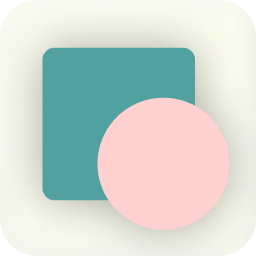
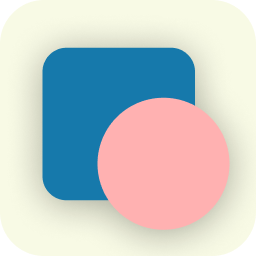
update accent colors

diff --git a/docs/_site/main.css b/docs/_site/main.css
@@ -1,1 +1,1 @@
[2 lines of base64/hex data omitted]

diff --git a/Color Streak/Flow/PalettePick/PalettePickView.swift b/Color Streak/Flow/PalettePick/PalettePickView.swift
@@ -11,6 +11,7 @@ import FirebaseAnalytics
 struct PalettePickView: View {
     @EnvironmentObject private var coordinator: Coordinator<CatalogRouter, CatalogError>
     @ObservedObject var palette: Palette
+    let initialColors: [Color]
     
     @AppStorage(UserDefaultsKey.deviceColorSpace.key)
     private var colorSpace: DeviceColorSpace = .displayP3
@@ -35,6 +36,11 @@ struct PalettePickView: View {
     }
     
     @State private var controller: ColorController = .slider
+    
+    init(palette: Palette) {
+        self.palette = palette
+        self.initialColors = palette.colors
+    }
     
     var body: some View {
         VStack(spacing: .zero) {
@@ -104,45 +110,13 @@ struct PalettePickView: View {
         .navigationBarTitleDisplayMode(.inline)
         .toolbar {
             ToolbarItem(placement: .automatic) {
-                Menu {
-                    Button("Light", systemImage: "sun.min.fill", action: {
-                        isDarkMode = false
-                    })
-                    
-                    Button("Dark", systemImage: "moon.fill", action: {
-                        isDarkMode = true
-                    })
-                } label: {
-                    Image(systemName: isDarkMode ? "moon.fill" : "sun.min.fill")
-                }
+                menuActions
             }
             
             ToolbarItem(placement: .automatic) {
-                Menu {
-                    Picker("Color Space", selection: $colorSpace) {
-                        ForEach(DeviceColorSpace.allCases) { colorSpace in
-                            Text(colorSpace.name)
-                                .tag(colorSpace)
-                        }
-                    }
-                } label: {
-                    Image(systemName: "cube.fill")
+                Button(role: .destructive, action: cancelChanges) {
+                    Image(systemName: "arrow.clockwise")
                 }
-            }
-            
-            ToolbarItem(placement: .automatic) {
-                    if palette.image != nil {
-                        Menu {
-                            Picker("Picker", selection: $colorPickerSource) {
-                                ForEach(ColorPickerSource.allCases) { colorPickerSource in
-                                    Text(colorPickerSource.name)
-                                        .tag(colorPickerSource)
-                                }
-                            }
-                        } label: {
-                            Image(systemName: "eyedropper.halffull")
-                        }
-                    }
             }
         }
         .toolbar(.hidden, for: .tabBar)
@@ -158,6 +132,10 @@ struct PalettePickView: View {
             palette.saveModel()
         }
         .analyticsScreen(name: AnalyticsEvent.screen(view: "\(type(of: self))"))
+    }
+    
+    private func cancelChanges() {
+        palette.colors = initialColors
     }
     
     private var minusButton: some View  {
@@ -226,6 +204,48 @@ struct PalettePickView: View {
         
         var name: String {
             self.rawValue
+        }
+    }
+    
+    private var menuActions: some View {
+        Menu {
+            Menu {
+                Button("Light", systemImage: "sun.min.fill", action: {
+                    isDarkMode = false
+                })
+                
+                Button("Dark", systemImage: "moon.fill", action: {
+                    isDarkMode = true
+                })
+            } label: {
+                Label("Light mode", systemImage: isDarkMode ? "moon.fill" : "sun.min.fill")
+            }
+            
+            Menu {
+                Picker("Color Space", selection: $colorSpace) {
+                    ForEach(DeviceColorSpace.allCases) { colorSpace in
+                        Text(colorSpace.name)
+                            .tag(colorSpace)
+                    }
+                }
+            } label: {
+                Label("Color Space", systemImage: "cube.fill")
+            }
+            
+            if palette.image != nil {
+                Menu{
+                    Picker("Picker", selection: $colorPickerSource) {
+                        ForEach(ColorPickerSource.allCases) { colorPickerSource in
+                            Text(colorPickerSource.name)
+                                .tag(colorPickerSource)
+                        }
+                    }
+                } label: {
+                    Label("Picker", systemImage: "eyedropper.halffull")
+                }
+            }
+        } label: {
+            Label("Settings", systemImage: "gearshape.fill")
         }
     }
 }

diff --git a/Color Streak/Flow/ColorPicker/Subviews/GradientSliderView.swift b/Color Streak/Flow/ColorPicker/Subviews/GradientSliderView.swift
@@ -14,6 +14,7 @@ struct GradientSliderView: View {
     @Binding var gradient: LinearGradient
     @State var coordinate: ColorCoordinate
     let showControl = true
+//    @State var initialLevel: Double
     
     @State private var size: CGSize = .zero
     @State private var position: CGPoint = .zero
@@ -21,6 +22,17 @@ struct GradientSliderView: View {
     @State private var isDragging = false
     
     @Environment(\.isEnabled) private var isEnabled
+    
+    @State private var triggerVibration: Bool = false
+    
+    init(text: String, color: Binding<Color>, level: Binding<Double>, gradient: Binding<LinearGradient>, coordinate: ColorCoordinate) {
+        self.text = text
+        self._color = color
+        self._level = level
+        self._gradient = gradient
+        self.coordinate = coordinate
+//        self.initialLevel = level.wrappedValue
+    }
     
     var body: some View {
         VStack(spacing: 0) {
@@ -61,6 +73,8 @@ struct GradientSliderView: View {
                 
                 KnobView(color: $color)
                     .position(position)
+                
+//                initialPoint
             }
             .readSize { size in
                 self.size = size
@@ -90,11 +104,22 @@ struct GradientSliderView: View {
                 guard isDragging else { return }
                 updateLevel(position: newPosition)
             }
+            .sensoryFeedback(.selection, trigger: triggerVibration)
         }
     }
     
     private func updateLevel(position: CGPoint) {
         let newLevel = max(min(position.x / size.width, size.width), 0)
+        
+//        let accuracy = 0.9 * 1 / (coordinate.range.upperBound - coordinate.range.lowerBound)
+//        let initialAccuracyRange = (initialLevel - accuracy)...(initialLevel + accuracy)
+//        if initialAccuracyRange ~= newLevel {
+//            level = initialLevel
+//            triggerVibration.toggle()
+//        } else {
+//            level = newLevel
+//        }
+        
         if level != newLevel {
             level = newLevel
         }
@@ -104,10 +129,20 @@ struct GradientSliderView: View {
         let x = max(min(level * size.width, size.width), 0)
         let y = size.height / 2
         let newPosition = CGPoint(x: x, y: y)
+        
         if newPosition != position {
             position = newPosition
         }
     }
+    
+//    private var initialPoint: some View {
+//        let midY = (size.height - 1) / 2
+//        let initialX = max(min(initialLevel * size.width, size.width), 0)
+//        return Circle()
+//            .fill(.regularMaterial)
+//            .frame(height: 5)
+//            .position(x: initialX, y: midY)
+//    }
 }
 
 #Preview {
@@ -122,7 +157,7 @@ struct GradientSliderView: View {
                 color: $color,
                 level: $level,
                 gradient: $gradient,
-                coordinate: .balance)
+                coordinate: .normal)
         }
     }
     

diff --git a/Color Streak/Flow/Contrast/ContrastView.swift b/Color Streak/Flow/Contrast/ContrastView.swift
@@ -30,16 +30,21 @@ struct ContrastView: View {
                 LazyVGrid(columns: [GridItem(.adaptive(minimum: 50, maximum: 100))], alignment: .center) {
                     ForEach(Array(zip(palette.colors.indices, palette.colors)), id: \.0) { index, color in
                         
+                        let isBackground = backgroundIndex == index
+                        let isForeground = foregroundIndex == index
                         Circle()
                             .fill(color)
-                            .shadow(color: .black.opacity(0.12), radius: 16)
                             .overlay {
-                                if index == foregroundIndex || index == backgroundIndex {
-                                    Circle()
-                                        .fill(.regularMaterial)
-                                        .frame(width: 8)
-                                }
+                                Circle()
+                                    .stroke(.regularMaterial, lineWidth: isBackground ? 8 : 0)
                             }
+                            .overlay {
+                                Circle()
+                                    .fill(.regularMaterial)
+                                    .frame(width: isForeground ? 16 : 0)
+                            }
+                        
+                            .shadow(color: .black.opacity(0.12), radius: 8)
                             .onTapGesture {
                                 if index == foregroundIndex || index == backgroundIndex {
                                     ifForegroundSelection = (index == foregroundIndex)

diff --git a/Color Streak/Model/Palette.swift b/Color Streak/Model/Palette.swift
@@ -8,7 +8,7 @@
 import SwiftUI
 import Combine
 
-class Palette: ObservableObject {
+class Palette: ObservableObject, Copyable {
     @Published var colors = [Color]()
     @Published var selection: Int?
     @Published var colorSpace: DeviceColorSpace = .sRGB
@@ -46,6 +46,16 @@ class Palette: ObservableObject {
         self.colorSpace = colorSpace
         self.name = name
         self.selection = colors.first != nil ? .zero : nil
+    }
+    
+    required init(copy: Palette) {
+        self.colors = copy.colors
+        self.name = "Copy of " + copy.name
+        self.colorSpace = copy.colorSpace
+        self.image = copy.image
+        self.tags = copy.tags
+        self.dateCreated = Date.now
+        self.dateModified = Date.now
     }
     
     var isMaxColors: Bool {
@@ -221,19 +231,6 @@ extension Palette {
         image: UIImage(resource: .circleColors))
     
     static func single(_ color: Color) -> Palette { Palette(colors: [color]) }
-}
-
-extension Palette: NSCopying {
-    func copy(with zone: NSZone? = nil) -> Any {
-        let copy = Palette(
-            colors: self.colors,
-            name: "Copy of " + self.name,
-            colorSpace: self.colorSpace,
-            image: self.image,
-            tags: self.tags
-        )
-        return copy
-    }
 }
 
 extension Palette {

diff --git a/Color Streak/Flow/PalettePick/BottomSheetView.swift b/Color Streak/Flow/PalettePick/BottomSheetView.swift
@@ -49,13 +49,14 @@ struct BottomSheetView<Content: View, Left: View, Right: View>: View {
             }
             .frame(width: geometry.size.width)
             .frame(maxHeight: maxHeight + heightToggle)
+            .padding(.bottom, safeAreaInsets.bottom)
             .background(background)
             .cornerRadius(Constants.radius)
             .frame(height: geometry.size.height, alignment: .bottom)
             .offset(y: max(self.offset + self.translation, 0))
             .animation(.spring, value: isOpen)
             .gesture(
-                DragGesture().updating(self.$translation) { value, state, _ in
+                DragGesture(minimumDistance: 40).updating(self.$translation) { value, state, _ in
                     state = value.translation.height
                 }.onEnded { value in
                     let snapDistance = self.maxHeight * Constants.snapRatio

diff --git a/Color Streak/Model/PaletteShop.swift b/Color Streak/Model/PaletteShop.swift
@@ -106,7 +106,7 @@ class PaletteShop: ObservableObject {
     
     @discardableResult
     func duplicate(palette: Palette) -> Bool {
-        guard let duplicate = palette.copy() as? Palette else { return false }
+        let duplicate = palette.copy()
         return add(palette: duplicate)
     }
     

diff --git a/Color Streak/Model/Copyable.swift b/Color Streak/Model/Copyable.swift
@@ -1,0 +1,18 @@
+//
+//  Copyable.swift
+//  Color Streak
+//
+//  Created by Denis Dmitriev on 16.06.2024.
+//
+
+import Foundation
+
+protocol Copyable {
+    init(copy: Self)
+}
+
+extension Copyable {
+    func copy() -> Self {
+        return Self.init(copy: self)
+    }
+}
